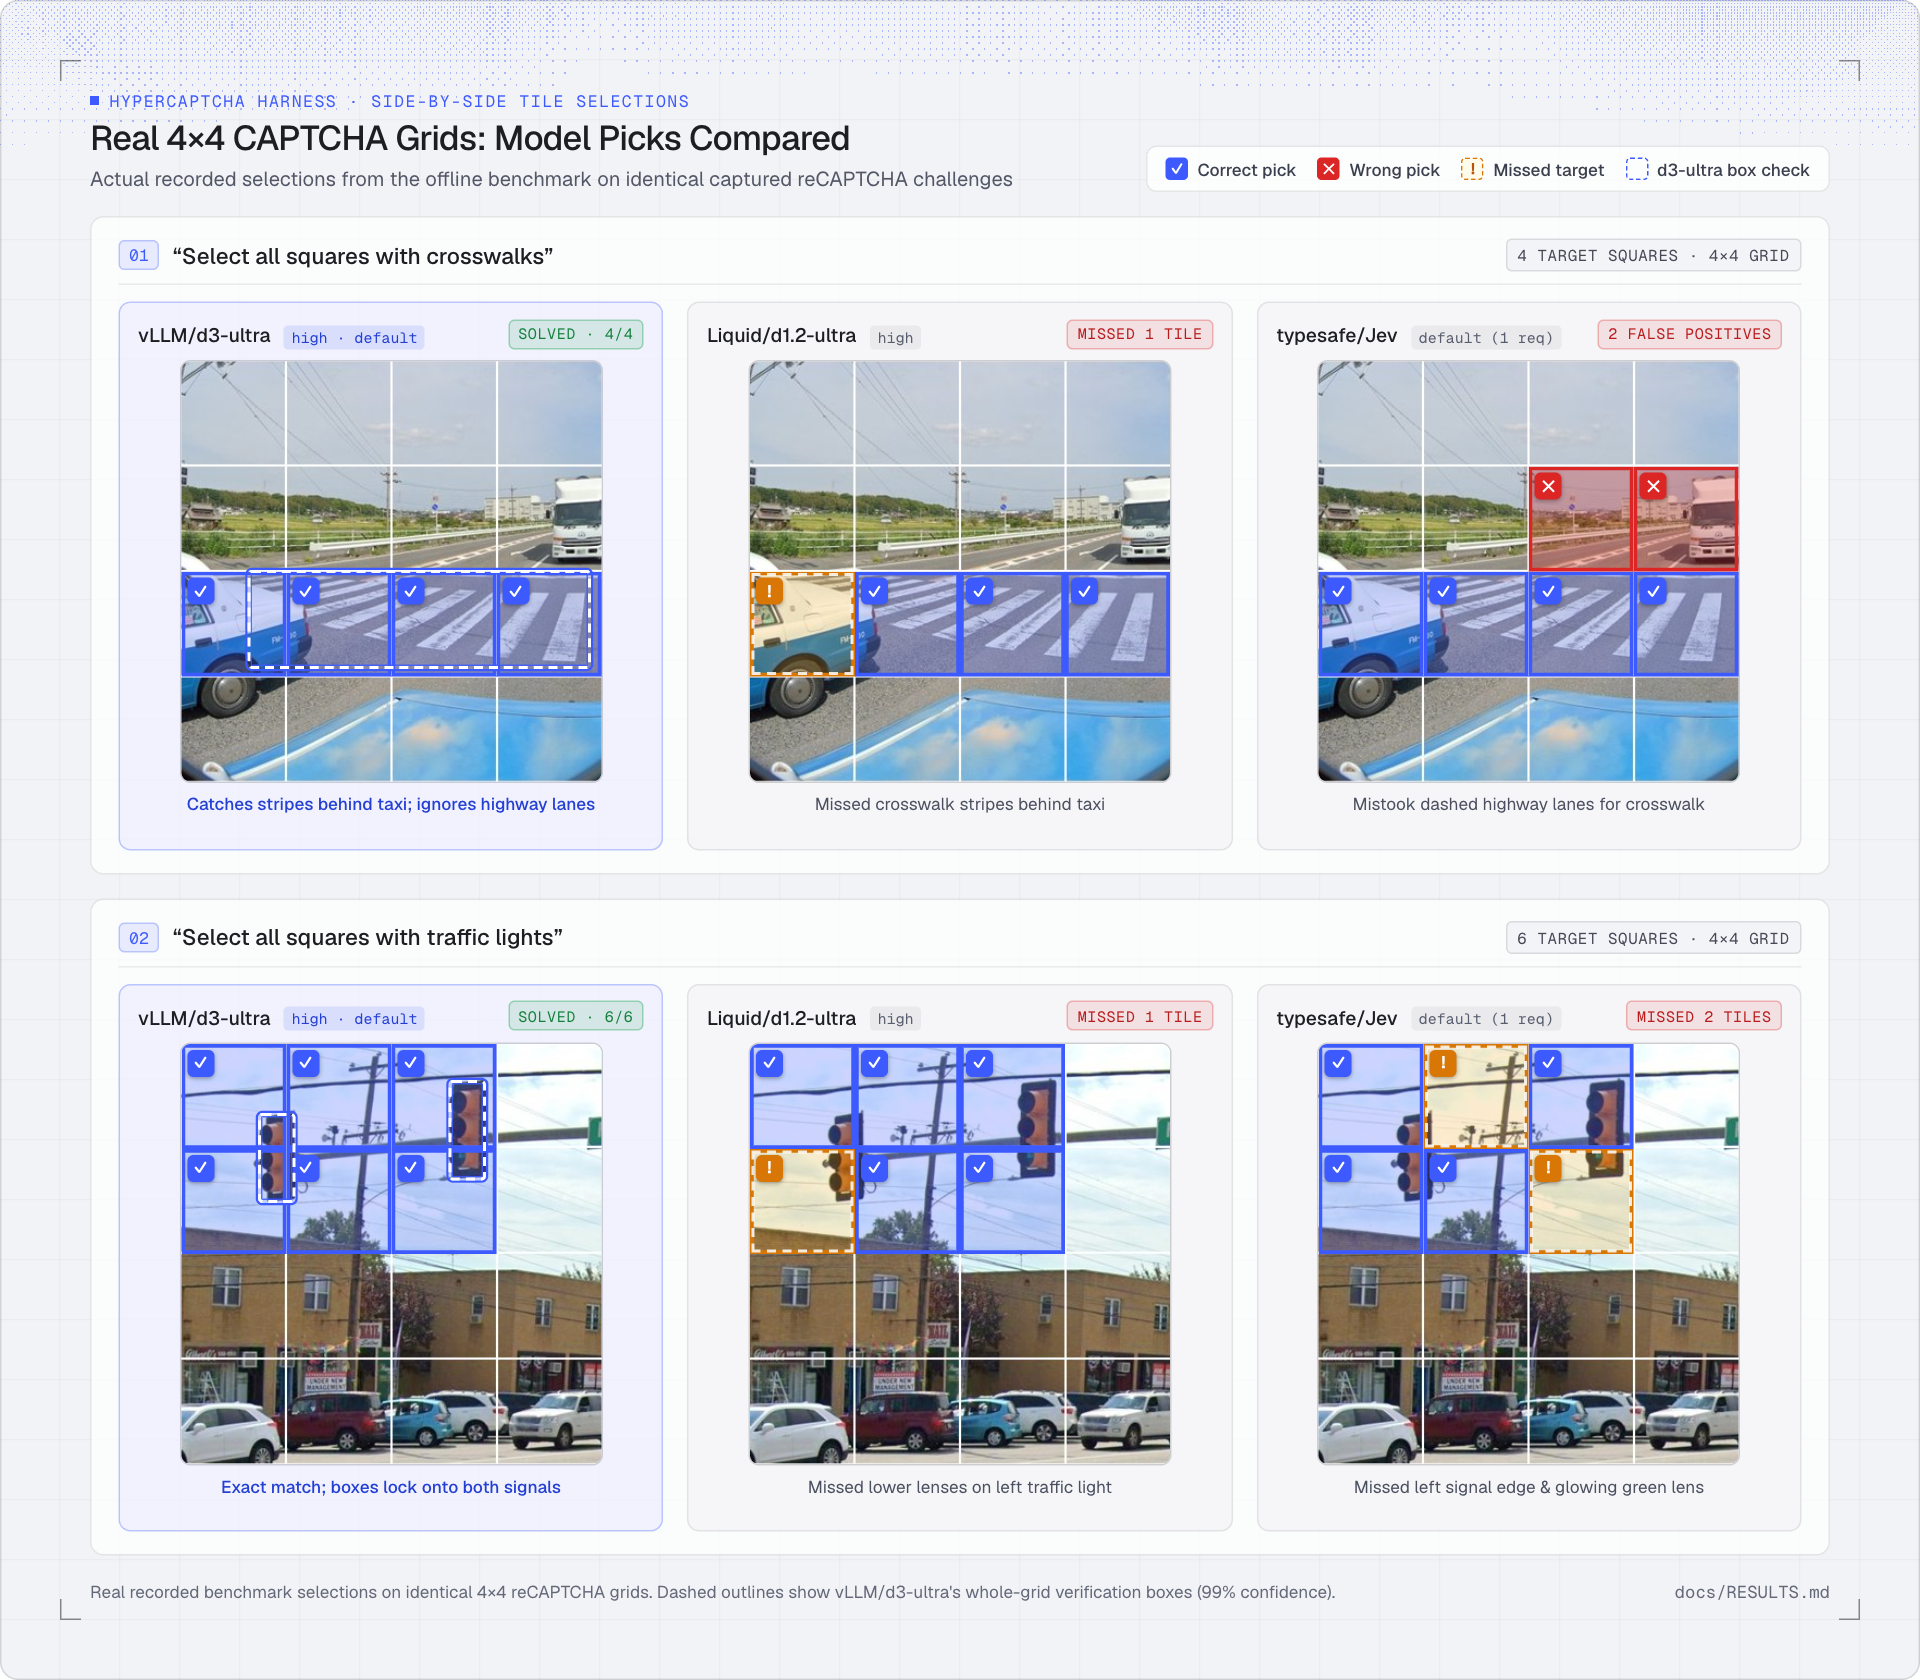
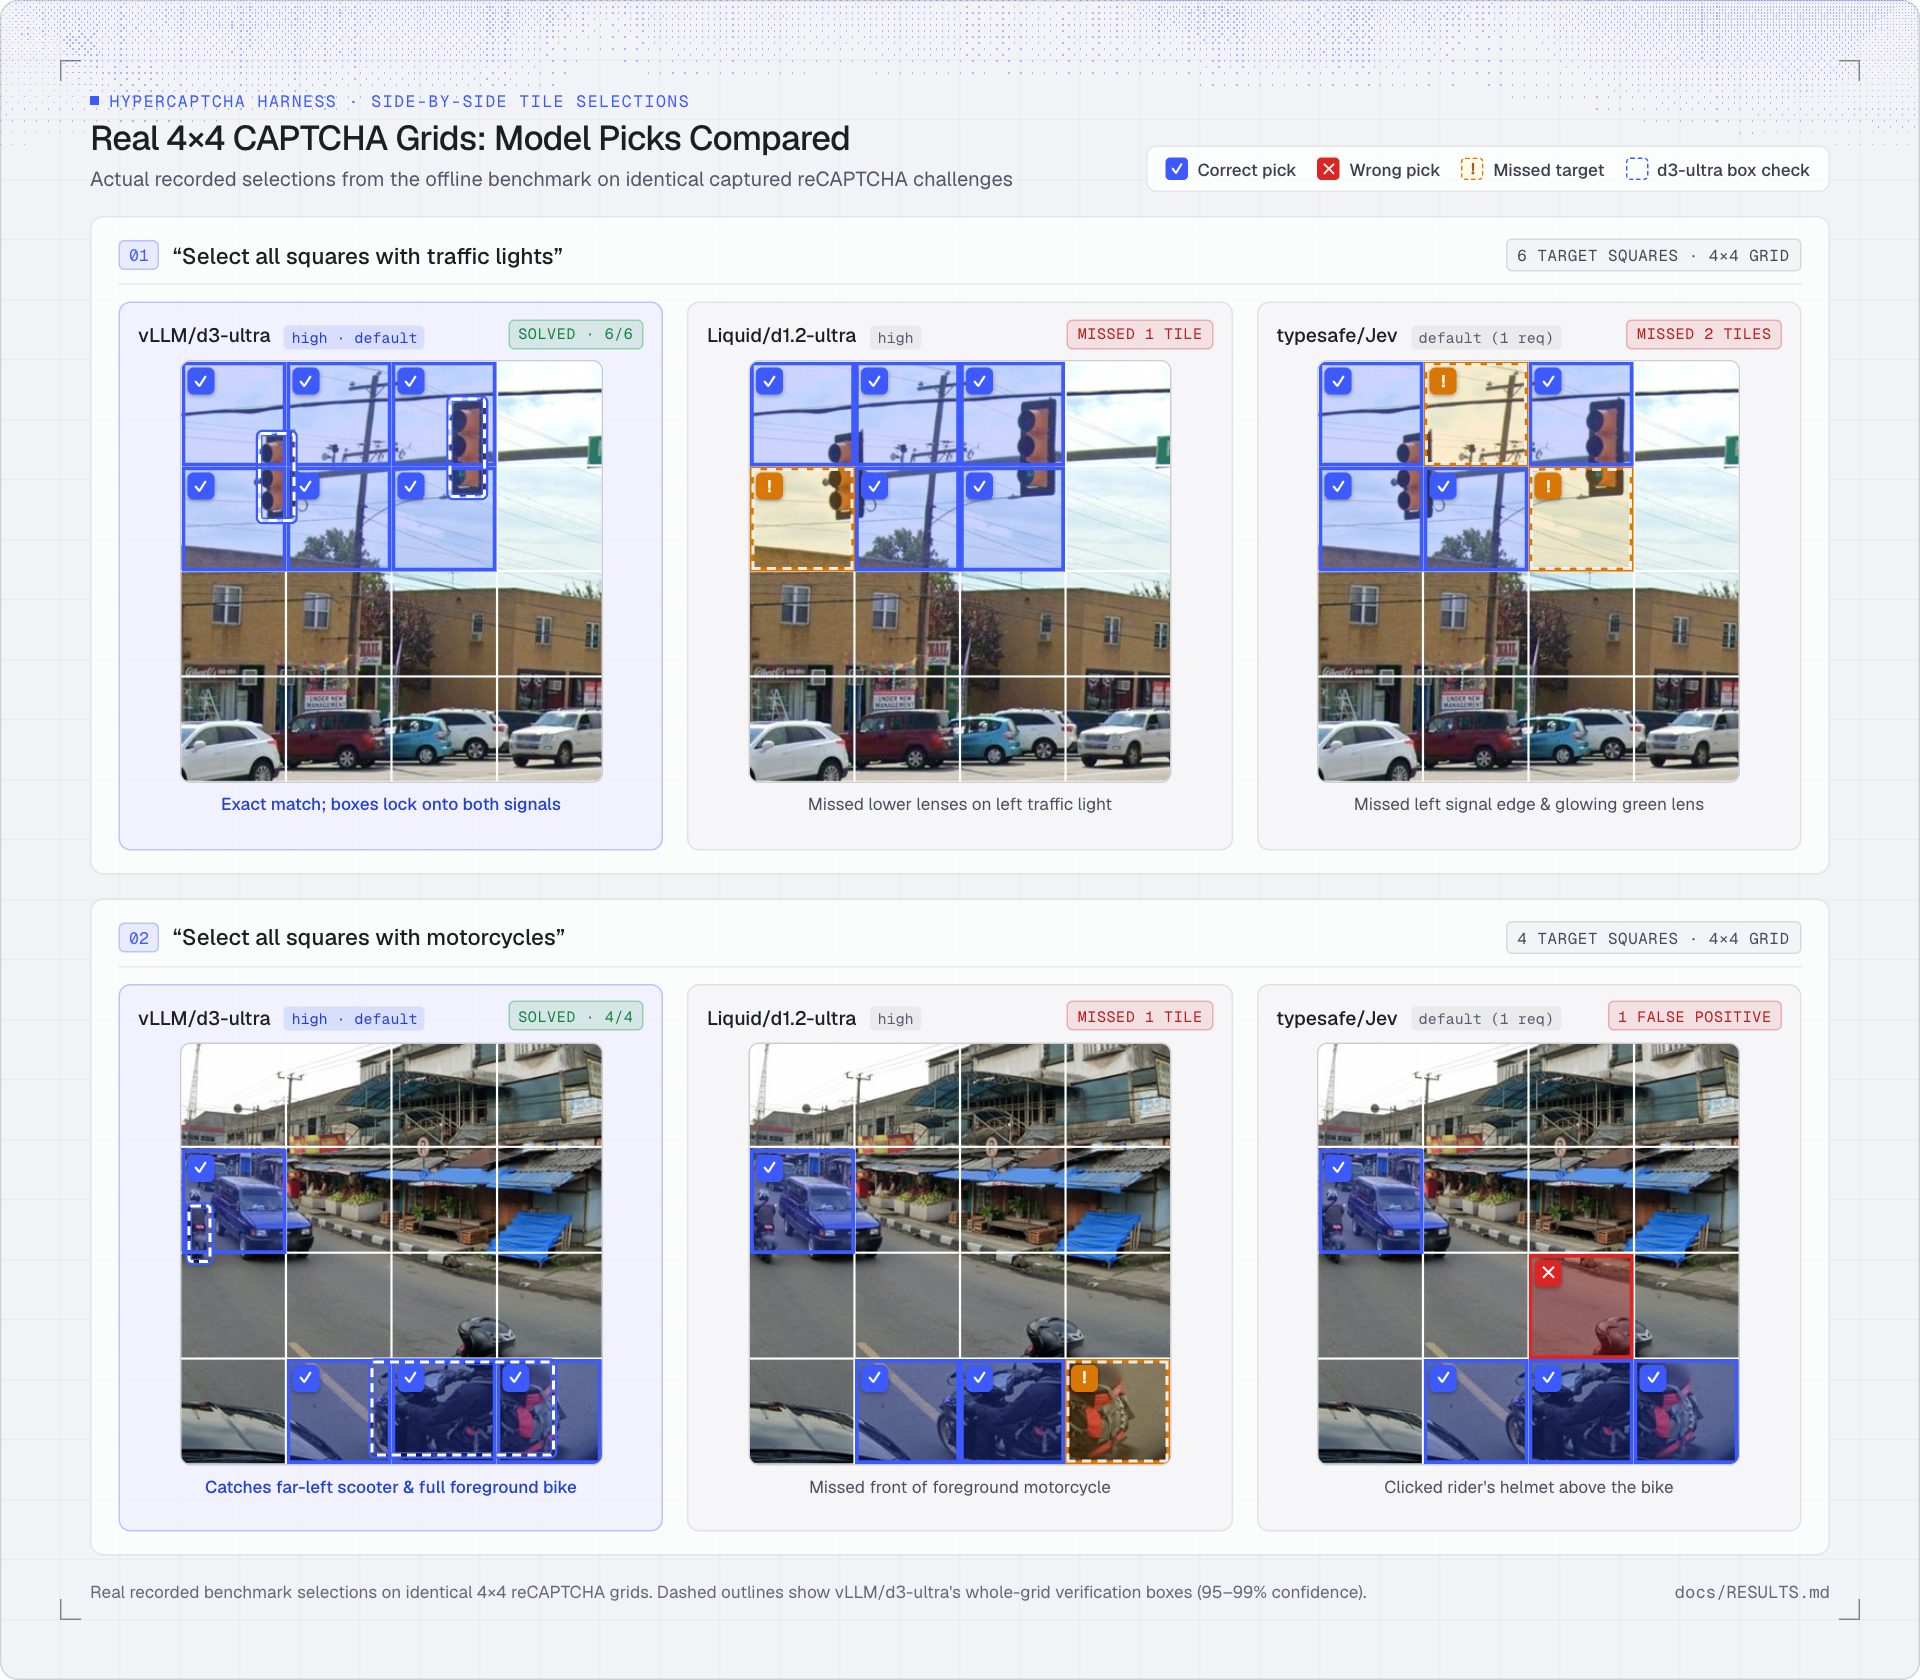
docs: update README CAPTCHA selection examples to traffic lights (01) and motorcycles (02)

diff --git a/README.md b/README.md
@@ -33,7 +33,7 @@ HyperCaptcha lets you dial how much work the harness asks a model to do on each 
 ### Side-by-Side Tile Selections on Real 4×4 Grids
 
 <p align="center">
-  <img src="docs/assets/example-model-selections.png" alt="Side-by-side comparison of real recorded tile selections from vLLM/d3-ultra, Liquid/d1.2-ultra, and typesafe/Jev on identical 4x4 reCAPTCHA crosswalk and traffic-light grids" width="100%" />
+  <img src="docs/assets/example-model-selections.png" alt="Side-by-side comparison of real recorded tile selections from vLLM/d3-ultra, Liquid/d1.2-ultra, and typesafe/Jev on identical 4x4 reCAPTCHA traffic-light and motorcycle grids" width="100%" />
 </p>
 
 - **Why `--effort high` is the default:** Inside HyperCaptcha, `vLLM/d3-ultra` at `high` solves **`82.9%` (`281/339`)** of 4×4 test grids — within 1 grid of `max` (`83.2%`, `282/339`) while using **`4,404` fewer input tokens** and cutting median provider compute wait roughly in half (**`282 ms`** vs. **`556 ms`**).
